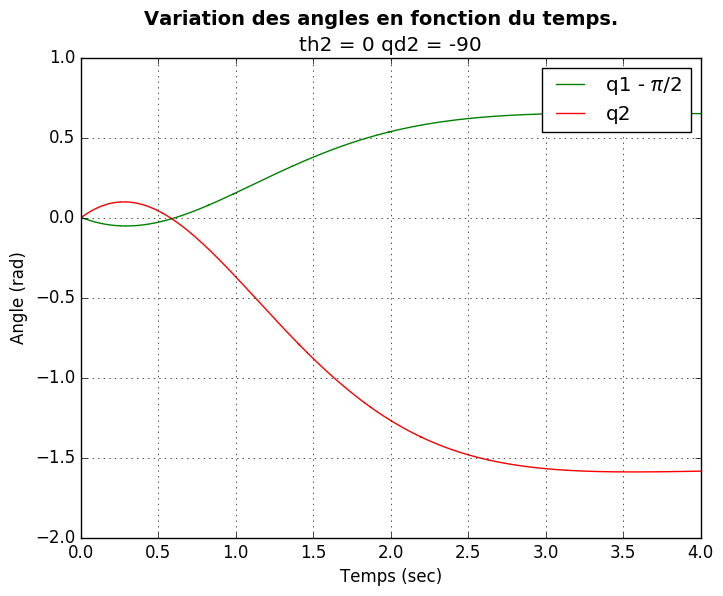
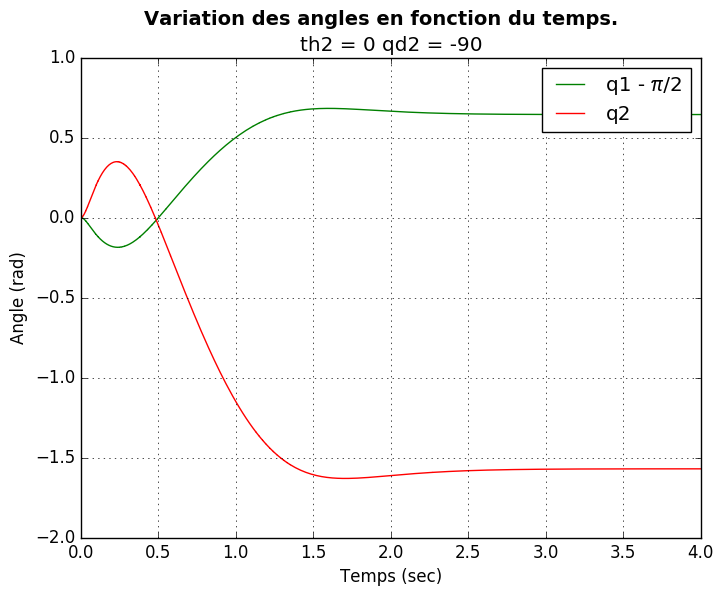
pas 2 fois a!!

diff --git a/Code/balance_avec_correction.py b/Code/balance_avec_correction.py
@@ -56,7 +56,7 @@ for i in range(len(vals_qd2)):
     t += [np.arange(0.0 + i * 10, 10*(i+1), dt)]
 """
 
-ks = -100
+ks = -50
 
 
 def torque(state, t):
@@ -217,7 +217,7 @@ ani = animation.FuncAnimation(fig, animate, frames=len(y),
 plt.axis('equal')
 plt.axis([-L, L, -L, L])
 plt.show()
-#tab[0] = [tab[0][i] - qd1 for i in range(len(tab[1]))]
-#tab[1] = [tab[1][i] - qd2 for i in range(len(tab[1]))]
+tab[0] = [tab[0][i] - qd1 for i in range(len(tab[1]))]
+tab[1] = [tab[1][i] - qd2 for i in range(len(tab[1]))]
 #print("plot")
-#do_plot(tab[0], tab[1], tab[2])
+do_plot(tab[0], tab[1], tab[2])

diff --git a/Code/readfile.py b/Code/readfile.py
@@ -206,15 +206,15 @@ def getGains2(lines, a, kss):
     print("gamma2 : ", gamma2)
     print("beta : ", beta)
 
-    p4 = (gamma2 * kss)/a
+    p4 = (gamma2 * kss)#/a
     print("p4 : ", p4)
     p = p4 ** (1/4)
     # print("p : ", p)
 
 
-    kp = (4 * a * p ** 3) / gK
-    kd = (6 * a * p ** 2 - beta - gamma1 * kss) / gK
-    kx = (4 * p * a) / gK
+    kp = (4 * p ** 3) / gK
+    kd = (6 * p ** 2 - beta - gamma1 * kss) / gK
+    kx = (4 * p) / gK
 
 
     print("kp : ", kp)

diff --git a/Code/calcul_gain_balance_correction.m b/Code/calcul_gain_balance_correction.m
@@ -109,9 +109,7 @@ A = vpa(A);
 % Calcul du polyn�me caract�ristique
 syms x
 polynome = charpoly(A);
-strcmp(class(polynome(2)),'sym');
-c = coeffs(polynome(3), ks);
-strcmp(class(vpa(c)),'sym');
+
 % Cr�ation d'un fichier o� on va mettre tout les coef du poly
 % caract�ristique et la bonne valeur de qd1
 fid = fopen('Data/gains_balance_correction.txt','w');
